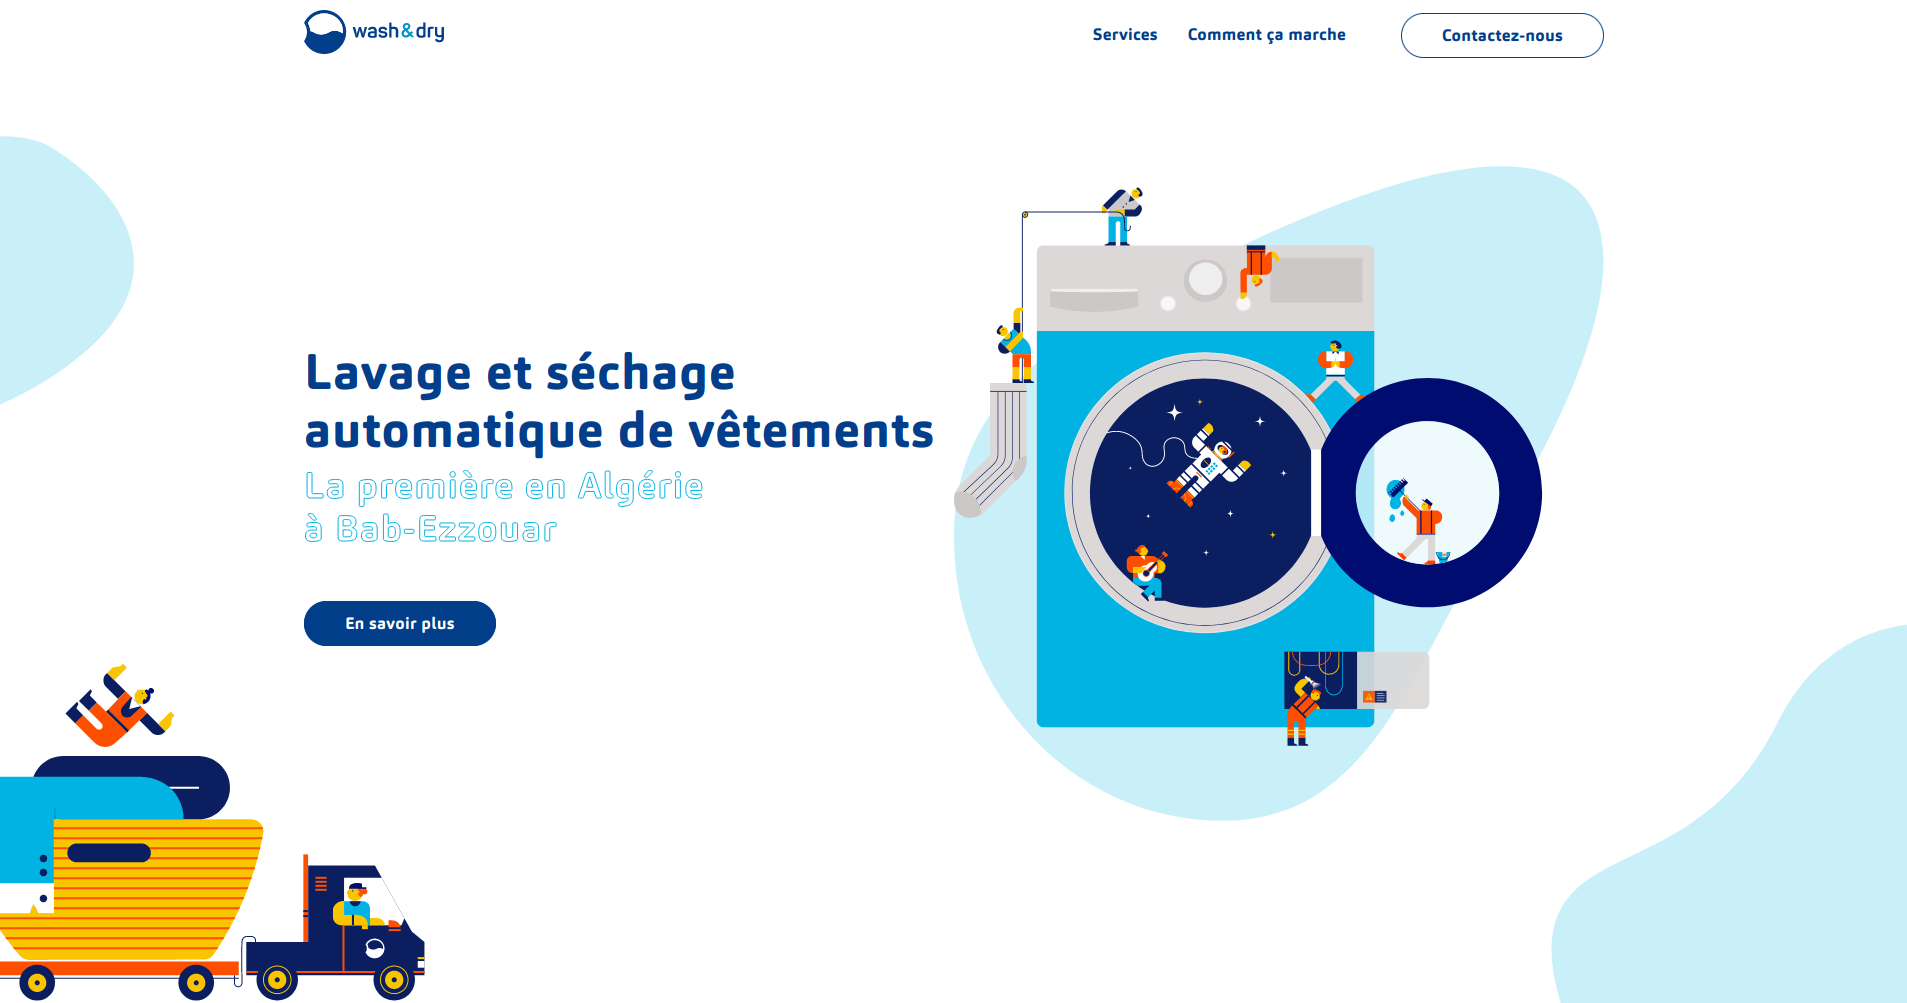
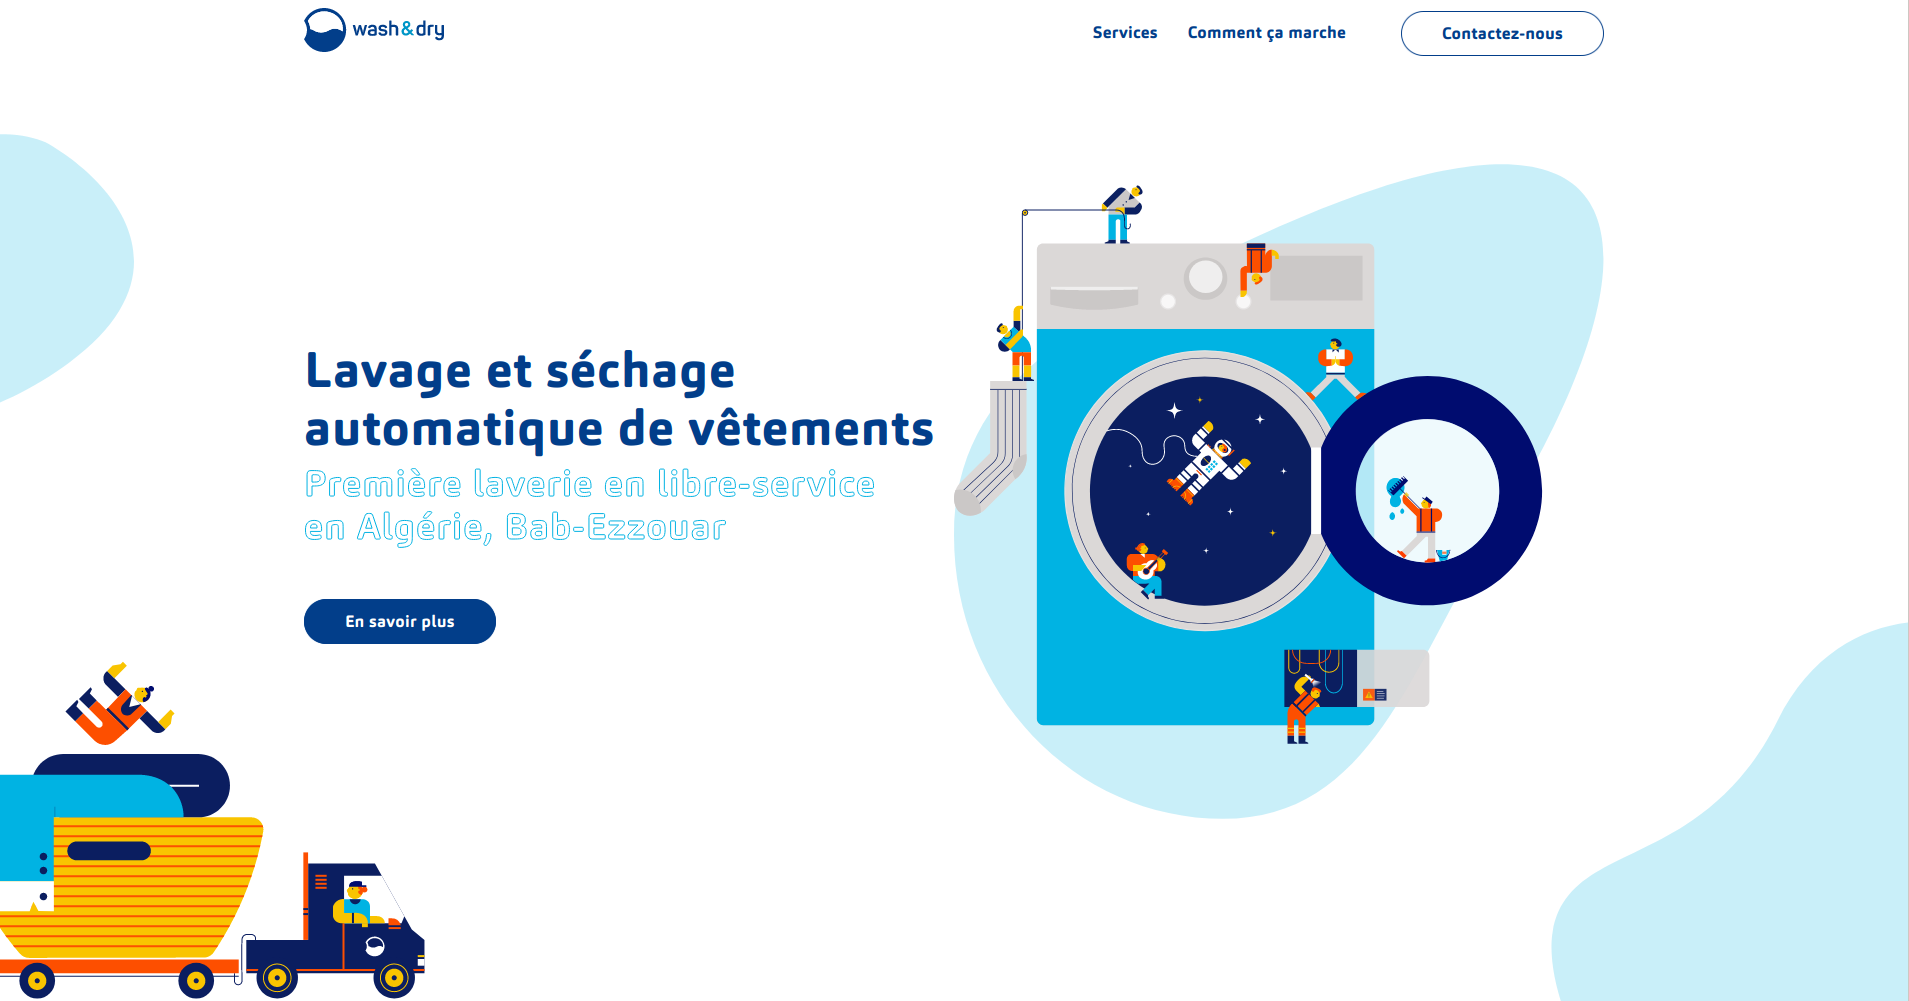
add texts

diff --git a/index.html b/index.html
@@ -12,21 +12,17 @@
     <meta name="url" content="https://washndry.co/">
     <meta name="revised" content="Monday, February 01st, 2021, 00:01" />
     <meta property="og:title" content="Wash&Dry, lavage et séchage automatique de vêtements.">
-    <meta property="og:description" content="La première laverie automatique en algérie à Bab-Ezzouar.">
-
-
+    <meta property="og:description" content="Première laverie en libre-service en Algérie, Bab-Ezzouar.">
+    <meta property="og:image" content="https://washndry.co/img/thumb.png">
     <meta property="og:url" content="https://washndry.co">
     <meta property="og:locale" content="fr_FR" />
     <meta property="og:type" content="website" />
     <meta property="og:site_name" content="Wash&Dry" />
     <meta property="twitter:title" content="Wash&Dry, lavage et séchage automatique de vêtements.">
-    <meta property="twitter:description" content="La première laverie automatique en algérie à Bab-Ezzouar.">
-
-
-    <meta property="twitter:card " content="summary_large_image ">
-    <meta name="twitter:image:alt " content="Wash&Dry ">
-
-
+    <meta property="twitter:description" content="Première laverie en libre-service en Algérie, Bab-Ezzouar.">
+    <meta property="twitter:image" content="https://washndry.co/img/thumb.png">
+    <meta property="twitter:card" content="summary_large_image ">
+    <meta name="twitter:image:alt" content="Wash&Dry ">
     <link rel="stylesheet" href="style.css" />
     <script src='https://api.mapbox.com/mapbox-gl-js/v2.0.1/mapbox-gl.js'></script>
     <link href='https://api.mapbox.com/mapbox-gl-js/v2.0.1/mapbox-gl.css' rel='stylesheet' />
@@ -90,7 +86,7 @@
             <div class="row">
                 <div class="banner_text_wrapper">
                     <h1>Lavage et séchage automatique de vêtements</h1>
-                    <p>La première en Algérie<br>à Bab-Ezzouar</p>
+                    <p>Première laverie en libre-service<br> en Algérie, Bab-Ezzouar</p>
                     <a href="#services" class="btn btn_blue"> En savoir plus </a>
                 </div>
                 <div class="banner_img_wrapper">
@@ -109,7 +105,7 @@
             <div class="row">
                 <div class="service_heading">
                     <h2>Services</h2>
-                    <p>On vous offres trois préstations principales</p>
+                    <p>On vous propose trois préstations principales</p>
                 </div>
                 <div class="services_wrapper">
                     <div class="home_services ">
@@ -137,7 +133,7 @@
                                     </svg>
                                 </div>
                                 <h3>Lavage</h3>
-                                <p>Dicta sunt explicabo. Nemo enim ipsam voluptatem quia voluptas sit aspernatur aut odit aut fugit</p>
+                                <p>Nos machines Turbowash vous offrent des performances de lavage puissantes améliorées en seulement 46 minutes.</p>
                             </a>
                         </div>
                         <div class="home_services_item_wrapper" aria-hidden="true" tabindex="1">
@@ -155,7 +151,7 @@
                                     </svg>
                                 </div>
                                 <h3>Séchage</h3>
-                                <p>Dicta sunt explicabo. Nemo enim ipsam voluptatem quia voluptas sit aspernatur aut odit aut fugit</p>
+                                <p>Le programme d'essorage rapide intégré vous permets de sécher votre linge avec le plus grand soin.</p>
                             </a>
                         </div>
                         <div class="home_services_item_wrapper" saria-hidden="true" tabindex="2">
@@ -176,7 +172,7 @@
                                     </svg>
                                 </div>
                                 <h3>Lessive</h3>
-                                <p>Dicta sunt explicabo. Nemo enim ipsam voluptatem quia voluptas sit aspernatur aut odit aut fugit</p>
+                                <p>Vous pouvez vous servir de la lessive liquide disponible qui vous offre une élimination des taches exceptionnelle.</p>
                             </a>
                         </div>
                     </div>
@@ -211,18 +207,18 @@
                                     </div>
                                     <div class="how_it_works_slider__text">
                                         <h3>Passer à la caisse</h3>
-                                        <p>Dicta sunt explicabo. Nemo enim ipsam voluptatem quia voluptas sit aspernatur aut odit aut fugit.</p>
+                                        <p>Passez au desk pour choisir votre formule et vous assigneres une machine.</p>
                                     </div>
                                 </div>
                             </div>
                             <div class="how_it_works_slider_item_wrapper">
                                 <div class="how_it_works_slider_item">
                                     <div class="how_it_works_slider__img">
-                                        <img src="img/steps/put_stuff.png" alt="Mettre ses vetements">
+                                        <img src="img/steps/put_stuff.png" alt="Remplir sa machine">
                                     </div>
                                     <div class="how_it_works_slider__text">
-                                        <h3>Mettre ses vetements</h3>
-                                        <p>Sed quia consequuntur magni dolores eos qui ratione voluptatem sequi nesciunt.</p>
+                                        <h3>Remplir sa machine</h3>
+                                        <p>Mettez votre linge sale à l'interieur du tambour de la machine.</p>
                                     </div>
                                 </div>
                             </div>
@@ -233,7 +229,7 @@
                                     </div>
                                     <div class="how_it_works_slider__text">
                                         <h3>Ajouter la lessive</h3>
-                                        <p>Quia consequuntur sed magni dolores eos qui ratione voluptatem sequi nesciunt.</p>
+                                        <p>Ajoutez votre propre lessive ou servez-vous de celle disponible au dessus de la machine.</p>
                                     </div>
                                 </div>
                             </div>
@@ -245,7 +241,7 @@
                                     </div>
                                     <div class="how_it_works_slider__text">
                                         <h3>Démarrer la machine</h3>
-                                        <p>Quia daref consequuntur sed magni dolores eos qui ratione voluptatem sequi nesciunt.</p>
+                                        <p>Choissisez le cycle lavage + séchage et appuyez sur le bouton "démarrer".</p>
                                     </div>
                                 </div>
                             </div>
@@ -373,11 +369,7 @@
         </svg>
     </footer>
 
-
-
-
     <script defer src='scripts/script.js'></script>
-    <script src='https://smtpjs.com/v3/smtp.js'></script>
     <script>
         mapboxgl.accessToken = 'pk.eyJ1Ijoic2FpZHppYW5pIiwiYSI6ImNra2NyaWFjejBrZDEyb29jenFlb3JsZjcifQ.GA6ctU8jnM31qo3-ToaKSg';
 
